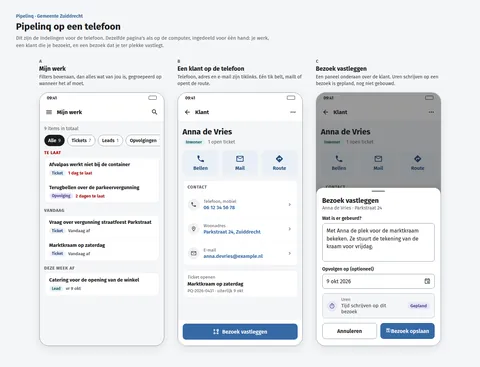
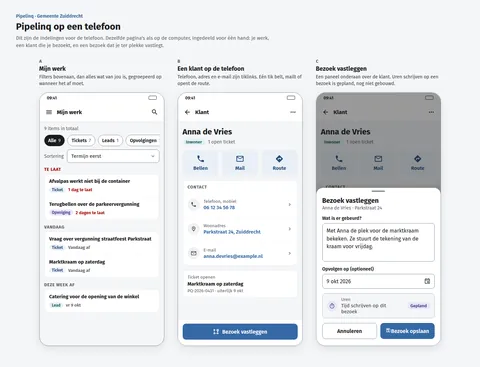
fix(screens): PqMijnWerk/PqMobiel take the page's sort, Acties and pressed lens chips
Decisions 28 Oct (coordinator):
- Sortering stays a working control on the page, so both boards draw it
  ('Termijn eerst'), PqMobiel in a row under the chips.
- 'Downloaden' stays and 'Acties' joins it: live's menu holds Vernieuwen,
  Een functie aanvragen, Een bug melden and Documentatie.
- The lens chips are a group of pressed buttons, as every Dq board draws its
  segmented groups (view switch, saved-view chips), not a tablist.

Assisted-by: ClaudeCode:claude-opus-5-5

Changed region(s): [[0.0938, 0.3896, 0.3125, 0.8392], [0.3125, 0.4196, 0.3438, 0.4496]]

diff --git a/preview/screens/boards/PqMijnWerk.html b/preview/screens/boards/PqMijnWerk.html
@@ -184,6 +184,7 @@ a{color:var(--sc-primary, #3669a5)}a:hover{color:var(--sc-primary-deep, #234a78)
           <h1 style="flex: 1 1 320px; min-width: 0; margin: 0; font-size: 28px; font-weight: 700; line-height: 1.2">Mijn werk</h1>
           <div style="flex: none; display: flex; flex-wrap: wrap; gap: 10px">
             <button type="button" style="display: flex; align-items: center; gap: 8px; height: 40px; padding: 0 14px; border: 1px solid var(--sc-work-field, #828a95); border-radius: 8px; background: #ffffff; font: 600 14px var(--sc-font, 'Fira Sans'), sans-serif; color: var(--sc-work-ink, #1b1c1d)"><svg width="16" height="16" viewbox="0 0 24 24" fill="currentColor"><path d="M13,5V11H14.17L12,13.17L9.83,11H11V5H13M15,3H9V9H5L12,16L19,9H15V3M19,18H5V20H19V18Z"></path></svg>Downloaden</button>
+            <button type="button" aria-haspopup="menu" style="display: flex; align-items: center; gap: 8px; height: 40px; padding: 0 14px; border: 1px solid var(--sc-work-field, #828a95); border-radius: 8px; background: #ffffff; font: 600 14px var(--sc-font, 'Fira Sans'), sans-serif; color: var(--sc-work-ink, #1b1c1d)"><svg width="16" height="16" viewbox="0 0 24 24" fill="currentColor" aria-hidden="true"><path d="M16,12A2,2 0 0,1 18,10A2,2 0 0,1 20,12A2,2 0 0,1 18,14A2,2 0 0,1 16,12M10,12A2,2 0 0,1 12,10A2,2 0 0,1 14,12A2,2 0 0,1 12,14A2,2 0 0,1 10,12M4,12A2,2 0 0,1 6,10A2,2 0 0,1 8,12A2,2 0 0,1 6,14A2,2 0 0,1 4,12Z"></path></svg>Acties</button>
             <button type="button" aria-label="buildiq" title="buildiq" style="display: flex; align-items: center; justify-content: center; width: 40px; height: 40px; border: 0; border-radius: 8px; background: var(--sc-buildiq, #c64e0b); color: #ffffff"><svg width="20" height="20" viewbox="0 0 24 24" fill="currentColor"><path d="M12,16L19.36,10.27L21,9L12,2L3,9L4.63,10.27M12,18.54L4.62,12.81L3,14.07L12,21.07L21,14.07L19.37,12.8L12,18.54Z"></path></svg></button>
           </div>
         </div>
@@ -193,9 +194,10 @@ a{color:var(--sc-primary, #3669a5)}a:hover{color:var(--sc-primary-deep, #234a78)
       </section>
 
         <div style="display: flex; flex-wrap: wrap; align-items: center; gap: 12px 16px; padding: 12px 16px; background: #ffffff; border: 1px solid var(--sc-work-line, #e4e6ea); border-radius: 12px">
-          <div role="tablist" aria-label="Toon" style="display: flex; gap: 2px; padding: 3px; border-radius: 8px; background: #eceef1"><button type="button" role="tab" aria-selected="true" style="display: inline-flex; align-items: center; gap: 6px; height: 34px; padding: 0 14px; border: 0; border-radius: 6px; font: 600 14px var(--sc-font, 'Fira Sans'), sans-serif; cursor: pointer; background: #ffffff; color: var(--sc-work-ink, #1b1c1d); box-shadow: 0 1px 2px rgba(27,28,29,0.12);">Alle<span style="font-weight: 400; color: var(--sc-work-muted, #5e6168)">9</span></button><button type="button" role="tab" aria-selected="false" style="display: inline-flex; align-items: center; gap: 6px; height: 34px; padding: 0 14px; border: 0; border-radius: 6px; font: 600 14px var(--sc-font, 'Fira Sans'), sans-serif; cursor: pointer; background: transparent; color: var(--sc-work-text, #3d4047);">Tickets<span style="font-weight: 400; color: var(--sc-work-muted, #5e6168)">7</span></button><button type="button" role="tab" aria-selected="false" style="display: inline-flex; align-items: center; gap: 6px; height: 34px; padding: 0 14px; border: 0; border-radius: 6px; font: 600 14px var(--sc-font, 'Fira Sans'), sans-serif; cursor: pointer; background: transparent; color: var(--sc-work-text, #3d4047);">Leads<span style="font-weight: 400; color: var(--sc-work-muted, #5e6168)">1</span></button><button type="button" role="tab" aria-selected="false" style="display: inline-flex; align-items: center; gap: 6px; height: 34px; padding: 0 14px; border: 0; border-radius: 6px; font: 600 14px var(--sc-font, 'Fira Sans'), sans-serif; cursor: pointer; background: transparent; color: var(--sc-work-text, #3d4047);">Opvolgingen<span style="font-weight: 400; color: var(--sc-work-muted, #5e6168)">1</span></button></div>
+          <div role="group" aria-label="Toon" style="display: flex; gap: 2px; padding: 3px; border-radius: 8px; background: #eceef1"><button type="button" aria-pressed="true" style="display: inline-flex; align-items: center; gap: 6px; height: 34px; padding: 0 14px; border: 0; border-radius: 6px; font: 600 14px var(--sc-font, 'Fira Sans'), sans-serif; cursor: pointer; background: #ffffff; color: var(--sc-work-ink, #1b1c1d); box-shadow: 0 1px 2px rgba(27,28,29,0.12);">Alle<span style="font-weight: 400; color: var(--sc-work-muted, #5e6168)">9</span></button><button type="button" aria-pressed="false" style="display: inline-flex; align-items: center; gap: 6px; height: 34px; padding: 0 14px; border: 0; border-radius: 6px; font: 600 14px var(--sc-font, 'Fira Sans'), sans-serif; cursor: pointer; background: transparent; color: var(--sc-work-text, #3d4047);">Tickets<span style="font-weight: 400; color: var(--sc-work-muted, #5e6168)">7</span></button><button type="button" aria-pressed="false" style="display: inline-flex; align-items: center; gap: 6px; height: 34px; padding: 0 14px; border: 0; border-radius: 6px; font: 600 14px var(--sc-font, 'Fira Sans'), sans-serif; cursor: pointer; background: transparent; color: var(--sc-work-text, #3d4047);">Leads<span style="font-weight: 400; color: var(--sc-work-muted, #5e6168)">1</span></button><button type="button" aria-pressed="false" style="display: inline-flex; align-items: center; gap: 6px; height: 34px; padding: 0 14px; border: 0; border-radius: 6px; font: 600 14px var(--sc-font, 'Fira Sans'), sans-serif; cursor: pointer; background: transparent; color: var(--sc-work-text, #3d4047);">Opvolgingen<span style="font-weight: 400; color: var(--sc-work-muted, #5e6168)">1</span></button></div>
           <span style="flex: 1 1 auto"></span>
           <label for="pq-mw-done" style="display: inline-flex; align-items: center; gap: 10px; font-size: 14px; font-weight: 600; cursor: pointer"><input id="pq-mw-done" type="checkbox" role="switch" style="width: 20px; height: 20px; margin: 0; accent-color: var(--sc-primary, #3669a5)">Toon afgerond</label>
+          <label for="pq-mw-sort" style="display: inline-flex; align-items: center; gap: 10px; font-size: 14px; color: var(--sc-work-muted, #5e6168)">Sortering<span style="position: relative; display: inline-flex"><select id="pq-mw-sort" style="appearance: none; -webkit-appearance: none; box-sizing: border-box; height: 40px; min-width: 200px; padding: 0 36px 0 12px; border: 1px solid var(--sc-work-field, #828a95); border-radius: 8px; background: #ffffff; font: 400 15px var(--sc-font, 'Fira Sans'), sans-serif; color: var(--sc-work-ink, #1b1c1d)"><option>Termijn eerst</option><option>Prioriteit eerst</option><option>Langst wachtend</option><option>Nieuwste eerst</option></select><svg width="18" height="18" viewbox="0 0 24 24" fill="currentColor" aria-hidden="true" style="position: absolute; right: 10px; top: 11px; pointer-events: none"><path d="M7.41,8.58L12,13.17L16.59,8.58L18,10L12,16L6,10L7.41,8.58Z"></path></svg></span></label>
         </div>
 
         <div style="display: flex; flex-wrap: wrap; gap: 20px; align-items: flex-start">

diff --git a/screens-src/zuiddrecht/PqMijnWerk.dc.html b/screens-src/zuiddrecht/PqMijnWerk.dc.html
@@ -25,6 +25,7 @@ a{color:#3669a5}a:hover{color:#234a78}
           <h1 style="flex: 1 1 320px; min-width: 0; margin: 0; font-size: 28px; font-weight: 700; line-height: 1.2">Mijn werk</h1>
           <div style="flex: none; display: flex; flex-wrap: wrap; gap: 10px">
             <button type="button" style="display: flex; align-items: center; gap: 8px; height: 40px; padding: 0 14px; border: 1px solid #828a95; border-radius: 8px; background: #ffffff; font: 600 14px 'Fira Sans', sans-serif; color: #1b1c1d"><svg width="16" height="16" viewBox="0 0 24 24" fill="currentColor"><path d="M13,5V11H14.17L12,13.17L9.83,11H11V5H13M15,3H9V9H5L12,16L19,9H15V3M19,18H5V20H19V18Z"></path></svg>Downloaden</button>
+            <button type="button" aria-haspopup="menu" style="display: flex; align-items: center; gap: 8px; height: 40px; padding: 0 14px; border: 1px solid #828a95; border-radius: 8px; background: #ffffff; font: 600 14px 'Fira Sans', sans-serif; color: #1b1c1d"><svg width="16" height="16" viewBox="0 0 24 24" fill="currentColor" aria-hidden="true"><path d="M16,12A2,2 0 0,1 18,10A2,2 0 0,1 20,12A2,2 0 0,1 18,14A2,2 0 0,1 16,12M10,12A2,2 0 0,1 12,10A2,2 0 0,1 14,12A2,2 0 0,1 12,14A2,2 0 0,1 10,12M4,12A2,2 0 0,1 6,10A2,2 0 0,1 8,12A2,2 0 0,1 6,14A2,2 0 0,1 4,12Z"></path></svg>Acties</button>
             <button type="button" aria-label="buildiq" title="buildiq" style="display: flex; align-items: center; justify-content: center; width: 40px; height: 40px; border: 0; border-radius: 8px; background: #c64e0b; color: #ffffff"><svg width="20" height="20" viewBox="0 0 24 24" fill="currentColor"><path d="M12,16L19.36,10.27L21,9L12,2L3,9L4.63,10.27M12,18.54L4.62,12.81L3,14.07L12,21.07L21,14.07L19.37,12.8L12,18.54Z"></path></svg></button>
           </div>
         </div>
@@ -34,9 +35,10 @@ a{color:#3669a5}a:hover{color:#234a78}
       </section>
 
         <div style="display: flex; flex-wrap: wrap; align-items: center; gap: 12px 16px; padding: 12px 16px; background: #ffffff; border: 1px solid #e4e6ea; border-radius: 12px">
-          <div role="tablist" aria-label="Toon" style="display: flex; gap: 2px; padding: 3px; border-radius: 8px; background: #eceef1"><button type="button" role="tab" aria-selected="true" style="display: inline-flex; align-items: center; gap: 6px; height: 34px; padding: 0 14px; border: 0; border-radius: 6px; font: 600 14px 'Fira Sans', sans-serif; cursor: pointer; background: #ffffff; color: #1b1c1d; box-shadow: 0 1px 2px rgba(27,28,29,0.12);">Alle<span style="font-weight: 400; color: #5e6168">9</span></button><button type="button" role="tab" aria-selected="false" style="display: inline-flex; align-items: center; gap: 6px; height: 34px; padding: 0 14px; border: 0; border-radius: 6px; font: 600 14px 'Fira Sans', sans-serif; cursor: pointer; background: transparent; color: #3d4047;">Tickets<span style="font-weight: 400; color: #5e6168">7</span></button><button type="button" role="tab" aria-selected="false" style="display: inline-flex; align-items: center; gap: 6px; height: 34px; padding: 0 14px; border: 0; border-radius: 6px; font: 600 14px 'Fira Sans', sans-serif; cursor: pointer; background: transparent; color: #3d4047;">Leads<span style="font-weight: 400; color: #5e6168">1</span></button><button type="button" role="tab" aria-selected="false" style="display: inline-flex; align-items: center; gap: 6px; height: 34px; padding: 0 14px; border: 0; border-radius: 6px; font: 600 14px 'Fira Sans', sans-serif; cursor: pointer; background: transparent; color: #3d4047;">Opvolgingen<span style="font-weight: 400; color: #5e6168">1</span></button></div>
+          <div role="group" aria-label="Toon" style="display: flex; gap: 2px; padding: 3px; border-radius: 8px; background: #eceef1"><button type="button" aria-pressed="true" style="display: inline-flex; align-items: center; gap: 6px; height: 34px; padding: 0 14px; border: 0; border-radius: 6px; font: 600 14px 'Fira Sans', sans-serif; cursor: pointer; background: #ffffff; color: #1b1c1d; box-shadow: 0 1px 2px rgba(27,28,29,0.12);">Alle<span style="font-weight: 400; color: #5e6168">9</span></button><button type="button" aria-pressed="false" style="display: inline-flex; align-items: center; gap: 6px; height: 34px; padding: 0 14px; border: 0; border-radius: 6px; font: 600 14px 'Fira Sans', sans-serif; cursor: pointer; background: transparent; color: #3d4047;">Tickets<span style="font-weight: 400; color: #5e6168">7</span></button><button type="button" aria-pressed="false" style="display: inline-flex; align-items: center; gap: 6px; height: 34px; padding: 0 14px; border: 0; border-radius: 6px; font: 600 14px 'Fira Sans', sans-serif; cursor: pointer; background: transparent; color: #3d4047;">Leads<span style="font-weight: 400; color: #5e6168">1</span></button><button type="button" aria-pressed="false" style="display: inline-flex; align-items: center; gap: 6px; height: 34px; padding: 0 14px; border: 0; border-radius: 6px; font: 600 14px 'Fira Sans', sans-serif; cursor: pointer; background: transparent; color: #3d4047;">Opvolgingen<span style="font-weight: 400; color: #5e6168">1</span></button></div>
           <span style="flex: 1 1 auto"></span>
           <label for="pq-mw-done" style="display: inline-flex; align-items: center; gap: 10px; font-size: 14px; font-weight: 600; cursor: pointer"><input id="pq-mw-done" type="checkbox" role="switch" style="width: 20px; height: 20px; margin: 0; accent-color: #3669a5">Toon afgerond</label>
+          <label for="pq-mw-sort" style="display: inline-flex; align-items: center; gap: 10px; font-size: 14px; color: #5e6168">Sortering<span style="position: relative; display: inline-flex"><select id="pq-mw-sort" style="appearance: none; -webkit-appearance: none; box-sizing: border-box; height: 40px; min-width: 200px; padding: 0 36px 0 12px; border: 1px solid #828a95; border-radius: 8px; background: #ffffff; font: 400 15px 'Fira Sans', sans-serif; color: #1b1c1d"><option>Termijn eerst</option><option>Prioriteit eerst</option><option>Langst wachtend</option><option>Nieuwste eerst</option></select><svg width="18" height="18" viewBox="0 0 24 24" fill="currentColor" aria-hidden="true" style="position: absolute; right: 10px; top: 11px; pointer-events: none"><path d="M7.41,8.58L12,13.17L16.59,8.58L18,10L12,16L6,10L7.41,8.58Z"></path></svg></span></label>
         </div>
 
         <div style="display: flex; flex-wrap: wrap; gap: 20px; align-items: flex-start">

diff --git a/preview/screens/boards/PqMobiel.html b/preview/screens/boards/PqMobiel.html
@@ -30,7 +30,8 @@ a{color:var(--sc-primary, #3669a5)}a:hover{color:var(--sc-primary-deep, #234a78)
   <div style="flex: none; height: 56px; display: flex; align-items: center; gap: 4px; padding: 0 8px; background: #ffffff; border-bottom: 1px solid var(--sc-work-line, #e4e6ea)"><button type="button" aria-label="Menu openen" style="width: 40px; height: 40px; flex: none; border: 0; border-radius: 20px; background: transparent; color: var(--sc-work-ink, #1b1c1d); display: flex; align-items: center; justify-content: center"><svg width="22" height="22" viewbox="0 0 24 24" fill="currentColor"><path d="M3,6H21V8H3V6M3,11H21V13H3V11M3,16H21V18H3V16Z"></path></svg></button><strong style="flex: 1; font-size: 17px; font-weight: 700; min-width: 0">Mijn werk</strong><button type="button" aria-label="Zoeken" style="width: 40px; height: 40px; flex: none; border: 0; border-radius: 20px; background: transparent; color: var(--sc-work-ink, #1b1c1d); display: flex; align-items: center; justify-content: center"><svg width="22" height="22" viewbox="0 0 24 24" fill="currentColor"><path d="M9.5,3A6.5,6.5 0 0,1 16,9.5C16,11.11 15.41,12.59 14.44,13.73L14.71,14H15.5L20.5,19L19,20.5L14,15.5V14.71L13.73,14.44C12.59,15.41 11.11,16 9.5,16A6.5,6.5 0 0,1 3,9.5A6.5,6.5 0 0,1 9.5,3M9.5,5C7,5 5,7 5,9.5C5,12 7,14 9.5,14C12,14 14,12 14,9.5C14,7 12,5 9.5,5Z"></path></svg></button></div>
   <div style="flex: none; padding: 12px 14px 4px; display: flex; flex-direction: column; gap: 10px">
     <span style="font-size: 14px; color: var(--sc-work-muted, #5e6168)">9 items in totaal</span>
-    <div role="tablist" aria-label="Toon" style="display: flex; gap: 8px; overflow: hidden"><button type="button" role="tab" aria-selected="true" style="flex: none; display: inline-flex; align-items: center; gap: 6px; height: 34px; padding: 0 12px; border-radius: 17px; font: 600 14px var(--sc-font, 'Fira Sans'), sans-serif; border: 0; background: var(--sc-work-ink, #1b1c1d); color: #ffffff;">Alle<span style="font-weight: 400; color: #d6d9de">9</span></button><button type="button" role="tab" aria-selected="false" style="flex: none; display: inline-flex; align-items: center; gap: 6px; height: 34px; padding: 0 12px; border-radius: 17px; font: 600 14px var(--sc-font, 'Fira Sans'), sans-serif; border: 1px solid var(--sc-work-field, #828a95); background: #ffffff; color: var(--sc-work-ink, #1b1c1d);">Tickets<span style="font-weight: 400; color: var(--sc-work-muted, #5e6168)">7</span></button><button type="button" role="tab" aria-selected="false" style="flex: none; display: inline-flex; align-items: center; gap: 6px; height: 34px; padding: 0 12px; border-radius: 17px; font: 600 14px var(--sc-font, 'Fira Sans'), sans-serif; border: 1px solid var(--sc-work-field, #828a95); background: #ffffff; color: var(--sc-work-ink, #1b1c1d);">Leads<span style="font-weight: 400; color: var(--sc-work-muted, #5e6168)">1</span></button><button type="button" role="tab" aria-selected="false" style="flex: none; display: inline-flex; align-items: center; gap: 6px; height: 34px; padding: 0 12px; border-radius: 17px; font: 600 14px var(--sc-font, 'Fira Sans'), sans-serif; border: 1px solid var(--sc-work-field, #828a95); background: #ffffff; color: var(--sc-work-ink, #1b1c1d);">Opvolgingen<span style="font-weight: 400; color: var(--sc-work-muted, #5e6168)">1</span></button></div>
+    <div role="group" aria-label="Toon" style="display: flex; gap: 8px; overflow: hidden"><button type="button" aria-pressed="true" style="flex: none; display: inline-flex; align-items: center; gap: 6px; height: 34px; padding: 0 12px; border-radius: 17px; font: 600 14px var(--sc-font, 'Fira Sans'), sans-serif; border: 0; background: var(--sc-work-ink, #1b1c1d); color: #ffffff;">Alle<span style="font-weight: 400; color: #d6d9de">9</span></button><button type="button" aria-pressed="false" style="flex: none; display: inline-flex; align-items: center; gap: 6px; height: 34px; padding: 0 12px; border-radius: 17px; font: 600 14px var(--sc-font, 'Fira Sans'), sans-serif; border: 1px solid var(--sc-work-field, #828a95); background: #ffffff; color: var(--sc-work-ink, #1b1c1d);">Tickets<span style="font-weight: 400; color: var(--sc-work-muted, #5e6168)">7</span></button><button type="button" aria-pressed="false" style="flex: none; display: inline-flex; align-items: center; gap: 6px; height: 34px; padding: 0 12px; border-radius: 17px; font: 600 14px var(--sc-font, 'Fira Sans'), sans-serif; border: 1px solid var(--sc-work-field, #828a95); background: #ffffff; color: var(--sc-work-ink, #1b1c1d);">Leads<span style="font-weight: 400; color: var(--sc-work-muted, #5e6168)">1</span></button><button type="button" aria-pressed="false" style="flex: none; display: inline-flex; align-items: center; gap: 6px; height: 34px; padding: 0 12px; border-radius: 17px; font: 600 14px var(--sc-font, 'Fira Sans'), sans-serif; border: 1px solid var(--sc-work-field, #828a95); background: #ffffff; color: var(--sc-work-ink, #1b1c1d);">Opvolgingen<span style="font-weight: 400; color: var(--sc-work-muted, #5e6168)">1</span></button></div>
+    <label for="pq-mob-sort" style="display: flex; align-items: center; gap: 10px; font-size: 14px; color: var(--sc-work-muted, #5e6168)">Sortering<span style="position: relative; display: flex; flex: 1 1 auto; min-width: 0"><select id="pq-mob-sort" style="appearance: none; -webkit-appearance: none; box-sizing: border-box; width: 100%; height: 40px; padding: 0 36px 0 12px; border: 1px solid var(--sc-work-field, #828a95); border-radius: 8px; background: #ffffff; font: 400 15px var(--sc-font, 'Fira Sans'), sans-serif; color: var(--sc-work-ink, #1b1c1d)"><option>Termijn eerst</option><option>Prioriteit eerst</option><option>Langst wachtend</option><option>Nieuwste eerst</option></select><svg width="18" height="18" viewbox="0 0 24 24" fill="currentColor" aria-hidden="true" style="position: absolute; right: 10px; top: 11px; pointer-events: none"><path d="M7.41,8.58L12,13.17L16.59,8.58L18,10L12,16L6,10L7.41,8.58Z"></path></svg></span></label>
   </div>
   <div style="flex: 1; overflow: hidden; padding: 8px 14px; display: flex; flex-direction: column; gap: 14px">
     

diff --git a/screens-src/zuiddrecht/PqMobiel.dc.html b/screens-src/zuiddrecht/PqMobiel.dc.html
@@ -28,7 +28,8 @@ a{color:#3669a5}a:hover{color:#234a78}
   <div style="flex: none; height: 56px; display: flex; align-items: center; gap: 4px; padding: 0 8px; background: #ffffff; border-bottom: 1px solid #e4e6ea"><button type="button" aria-label="Menu openen" style="width: 40px; height: 40px; flex: none; border: 0; border-radius: 20px; background: transparent; color: #1b1c1d; display: flex; align-items: center; justify-content: center"><svg width="22" height="22" viewBox="0 0 24 24" fill="currentColor"><path d="M3,6H21V8H3V6M3,11H21V13H3V11M3,16H21V18H3V16Z"></path></svg></button><strong style="flex: 1; font-size: 17px; font-weight: 700; min-width: 0">Mijn werk</strong><button type="button" aria-label="Zoeken" style="width: 40px; height: 40px; flex: none; border: 0; border-radius: 20px; background: transparent; color: #1b1c1d; display: flex; align-items: center; justify-content: center"><svg width="22" height="22" viewBox="0 0 24 24" fill="currentColor"><path d="M9.5,3A6.5,6.5 0 0,1 16,9.5C16,11.11 15.41,12.59 14.44,13.73L14.71,14H15.5L20.5,19L19,20.5L14,15.5V14.71L13.73,14.44C12.59,15.41 11.11,16 9.5,16A6.5,6.5 0 0,1 3,9.5A6.5,6.5 0 0,1 9.5,3M9.5,5C7,5 5,7 5,9.5C5,12 7,14 9.5,14C12,14 14,12 14,9.5C14,7 12,5 9.5,5Z"></path></svg></button></div>
   <div style="flex: none; padding: 12px 14px 4px; display: flex; flex-direction: column; gap: 10px">
     <span style="font-size: 14px; color: #5e6168">9 items in totaal</span>
-    <div role="tablist" aria-label="Toon" style="display: flex; gap: 8px; overflow: hidden"><button type="button" role="tab" aria-selected="true" style="flex: none; display: inline-flex; align-items: center; gap: 6px; height: 34px; padding: 0 12px; border-radius: 17px; font: 600 14px 'Fira Sans', sans-serif; border: 0; background: #1b1c1d; color: #ffffff;">Alle<span style="font-weight: 400; color: #d6d9de">9</span></button><button type="button" role="tab" aria-selected="false" style="flex: none; display: inline-flex; align-items: center; gap: 6px; height: 34px; padding: 0 12px; border-radius: 17px; font: 600 14px 'Fira Sans', sans-serif; border: 1px solid #828a95; background: #ffffff; color: #1b1c1d;">Tickets<span style="font-weight: 400; color: #5e6168">7</span></button><button type="button" role="tab" aria-selected="false" style="flex: none; display: inline-flex; align-items: center; gap: 6px; height: 34px; padding: 0 12px; border-radius: 17px; font: 600 14px 'Fira Sans', sans-serif; border: 1px solid #828a95; background: #ffffff; color: #1b1c1d;">Leads<span style="font-weight: 400; color: #5e6168">1</span></button><button type="button" role="tab" aria-selected="false" style="flex: none; display: inline-flex; align-items: center; gap: 6px; height: 34px; padding: 0 12px; border-radius: 17px; font: 600 14px 'Fira Sans', sans-serif; border: 1px solid #828a95; background: #ffffff; color: #1b1c1d;">Opvolgingen<span style="font-weight: 400; color: #5e6168">1</span></button></div>
+    <div role="group" aria-label="Toon" style="display: flex; gap: 8px; overflow: hidden"><button type="button" aria-pressed="true" style="flex: none; display: inline-flex; align-items: center; gap: 6px; height: 34px; padding: 0 12px; border-radius: 17px; font: 600 14px 'Fira Sans', sans-serif; border: 0; background: #1b1c1d; color: #ffffff;">Alle<span style="font-weight: 400; color: #d6d9de">9</span></button><button type="button" aria-pressed="false" style="flex: none; display: inline-flex; align-items: center; gap: 6px; height: 34px; padding: 0 12px; border-radius: 17px; font: 600 14px 'Fira Sans', sans-serif; border: 1px solid #828a95; background: #ffffff; color: #1b1c1d;">Tickets<span style="font-weight: 400; color: #5e6168">7</span></button><button type="button" aria-pressed="false" style="flex: none; display: inline-flex; align-items: center; gap: 6px; height: 34px; padding: 0 12px; border-radius: 17px; font: 600 14px 'Fira Sans', sans-serif; border: 1px solid #828a95; background: #ffffff; color: #1b1c1d;">Leads<span style="font-weight: 400; color: #5e6168">1</span></button><button type="button" aria-pressed="false" style="flex: none; display: inline-flex; align-items: center; gap: 6px; height: 34px; padding: 0 12px; border-radius: 17px; font: 600 14px 'Fira Sans', sans-serif; border: 1px solid #828a95; background: #ffffff; color: #1b1c1d;">Opvolgingen<span style="font-weight: 400; color: #5e6168">1</span></button></div>
+    <label for="pq-mob-sort" style="display: flex; align-items: center; gap: 10px; font-size: 14px; color: #5e6168">Sortering<span style="position: relative; display: flex; flex: 1 1 auto; min-width: 0"><select id="pq-mob-sort" style="appearance: none; -webkit-appearance: none; box-sizing: border-box; width: 100%; height: 40px; padding: 0 36px 0 12px; border: 1px solid #828a95; border-radius: 8px; background: #ffffff; font: 400 15px 'Fira Sans', sans-serif; color: #1b1c1d"><option>Termijn eerst</option><option>Prioriteit eerst</option><option>Langst wachtend</option><option>Nieuwste eerst</option></select><svg width="18" height="18" viewBox="0 0 24 24" fill="currentColor" aria-hidden="true" style="position: absolute; right: 10px; top: 11px; pointer-events: none"><path d="M7.41,8.58L12,13.17L16.59,8.58L18,10L12,16L6,10L7.41,8.58Z"></path></svg></span></label>
   </div>
   <div style="flex: 1; overflow: hidden; padding: 8px 14px; display: flex; flex-direction: column; gap: 14px">
     <sc-for list="{{ groups }}" as="g" hint-placeholder-count="3">
